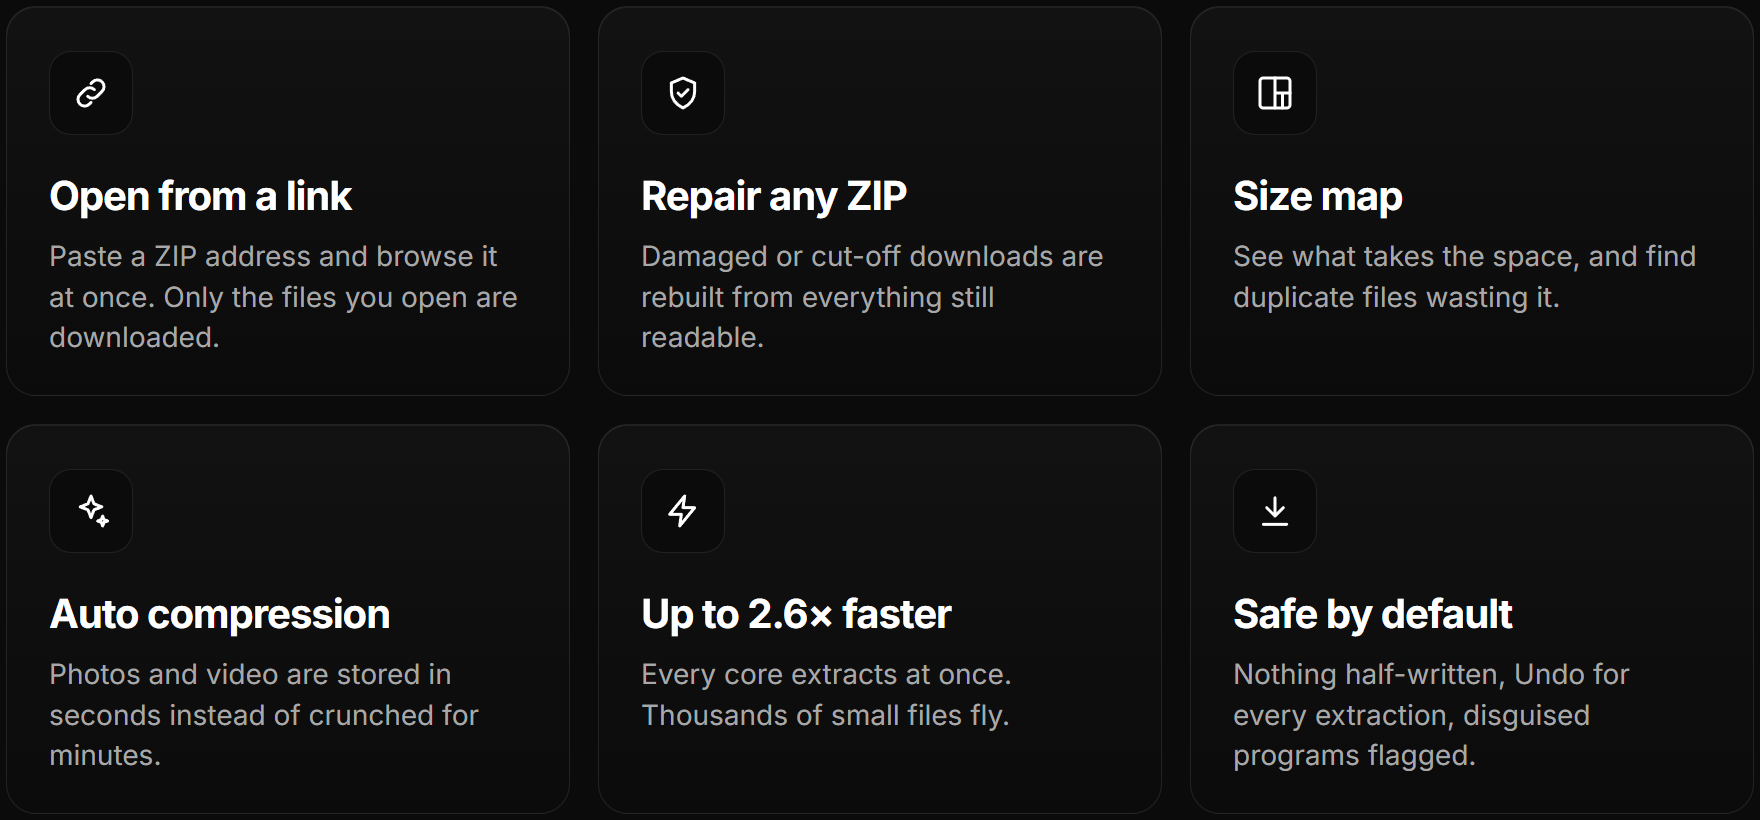
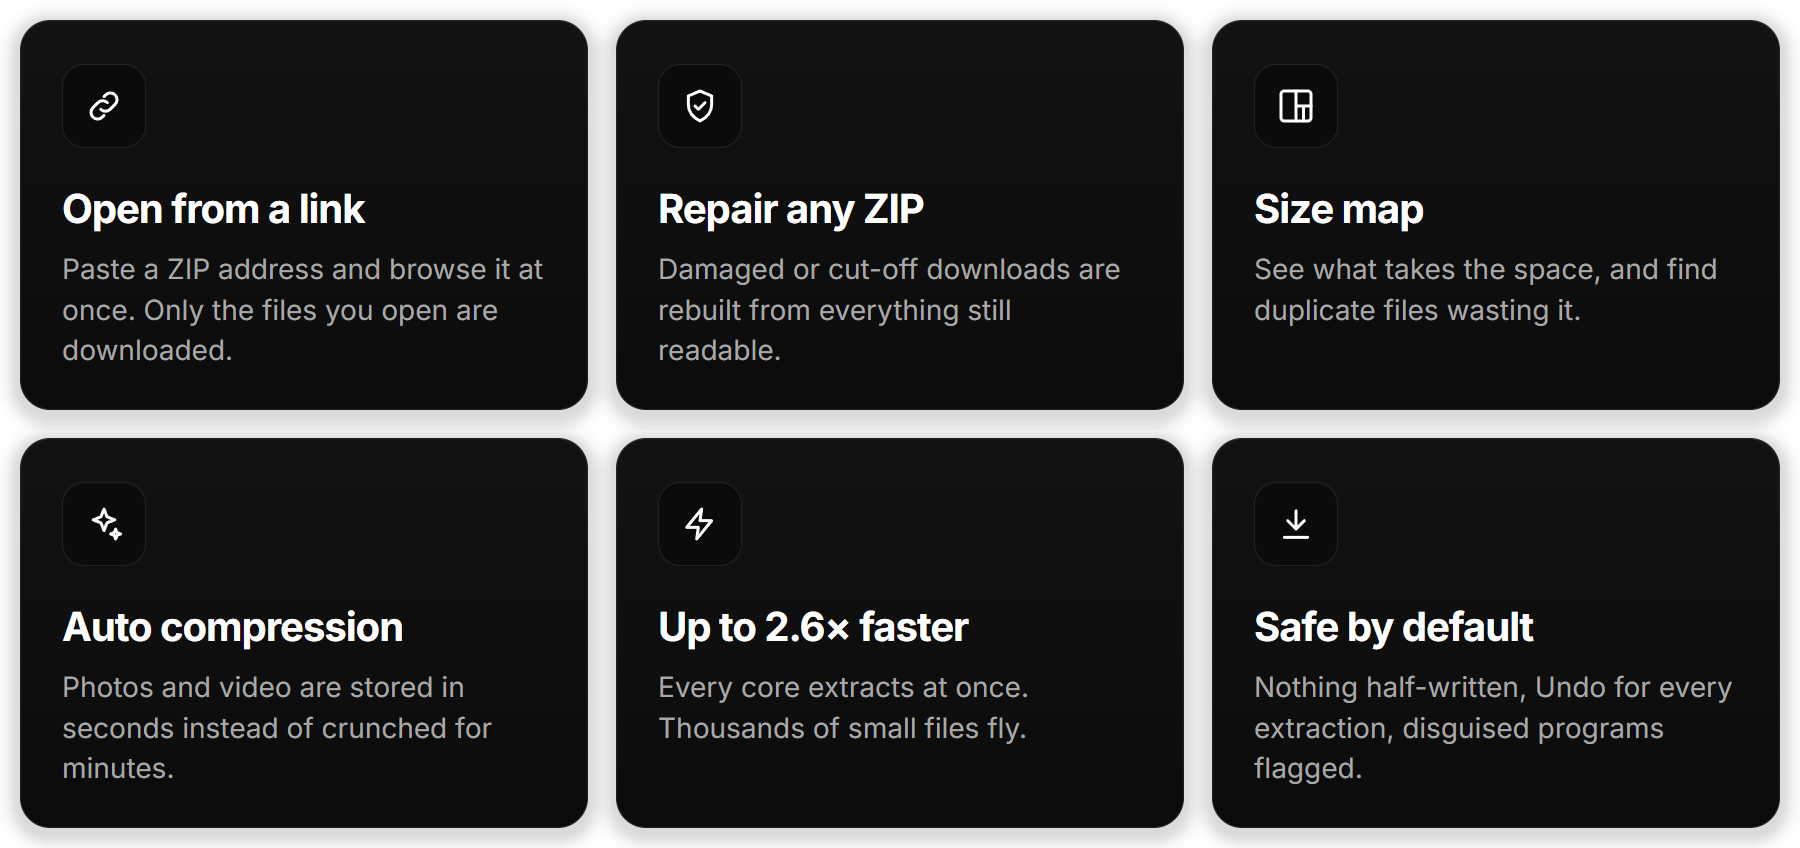
Tighten page spacing, add a speed chart, make the gaps between feature cards transparent, fix screenshots

diff --git a/README.md b/README.md
@@ -1,50 +1,62 @@
 <div align="center">
-
 <picture>
-  <source media="(prefers-color-scheme: dark)" srcset="assets/banner-dark.png">
-  <img src="assets/banner-light.png" alt="Anchor: the archive tool for Windows that opens anything, extracts faster, and fixes what is broken" width="100%">
+<source media="(prefers-color-scheme: dark)" srcset="assets/banner-dark.png">
+<img src="assets/banner-light.png" alt="Anchor: the archive tool for Windows that opens anything, extracts faster, and fixes what is broken" width="100%">
 </picture>
-
-<a href="https://github.com/realhenners/anchor-releases/releases/latest"><img src="assets/button-download.png" alt="Download for Windows" width="324"></a>
-<a href="https://github.com/realhenners/anchor-releases/releases"><picture>
-  <source media="(prefers-color-scheme: dark)" srcset="assets/button-notes-dark.png">
-  <img src="assets/button-notes-light.png" alt="What's new" width="234">
-</picture></a>
-
-<sub>Free · Windows 10 and 11 · x64 and ARM64 · No admin rights needed</sub>
-
-<br><br>
-
+<p>
+<a href="https://github.com/realhenners/anchor-releases/releases/latest"><img src="assets/button-download.png" alt="Download for Windows" height="62"></a>&nbsp;&nbsp;<a href="https://github.com/realhenners/anchor-releases/releases"><img src="assets/button-notes.png" alt="What's new" height="62"></a>
+</p>
+<p><sub>Free&nbsp;&nbsp;·&nbsp;&nbsp;Windows 10 and 11&nbsp;&nbsp;·&nbsp;&nbsp;x64 and ARM64&nbsp;&nbsp;·&nbsp;&nbsp;No admin rights needed</sub></p>
 <img src="assets/shot-archive.png" alt="Anchor showing the contents of a ZIP archive, with a photo preview" width="100%">
-
 </div>
-
-<br>
 
 ## What makes it different
 
 <picture>
-  <source media="(prefers-color-scheme: dark)" srcset="assets/features-dark.png">
-  <img src="assets/features-light.png" alt="Open from a link. Repair any ZIP. Size map. Auto compression. Up to 2.6 times faster. Safe by default." width="100%">
+<source media="(prefers-color-scheme: dark)" srcset="assets/features-dark.png">
+<img src="assets/features-light.png" alt="Open from a link. Repair any ZIP. Size map. Auto compression. Up to 2.6 times faster. Safe by default." width="100%">
 </picture>
 
-<br>
+## Up to 2.6× faster than 7-Zip
+
+Anchor extracts on every processor core at once, so archives with many files finish in well under half the time. With a few large files, the two are even.
+
+<picture>
+<source media="(prefers-color-scheme: dark)" srcset="assets/speed-dark.png">
+<img src="assets/speed-light.png" alt="Extraction time, Anchor against 7-Zip 26.04. 4,000 small files: ZIP 1.4 s against 3.7 s, TAR.ZST 1.6 s against 4.0 s, TAR.GZ 1.7 s against 3.7 s, 7Z 3.7 s against 3.8 s. 8 large files: about the same for every format." width="100%">
+</picture>
+
+<details>
+<summary>See the numbers</summary>
+
+| Archive | Anchor | 7-Zip 26.04 | |
+| :-- | --: | --: | :-- |
+| 4,000 small files · ZIP | 1.43 s | 3.67 s | **2.6× faster** |
+| 4,000 small files · TAR.ZST | 1.60 s | 3.98 s | **2.5× faster** |
+| 4,000 small files · TAR.GZ | 1.73 s | 3.67 s | **2.1× faster** |
+| 4,000 small files · 7Z | 3.69 s | 3.78 s | about the same |
+| 8 large files, 320 MB · ZIP | 0.51 s | 0.50 s | about the same |
+| 8 large files, 320 MB · 7Z | 0.27 s | 0.26 s | about the same |
+| 8 large files, 320 MB · TAR.GZ | 0.76 s | 0.71 s | about the same |
+| 8 large files, 320 MB · TAR.ZST | 0.36 s | 0.33 s | about the same |
+
+Measured on one PC with 24 cores, best of three runs, each tool extracting to an empty folder and producing the same files.
+
+</details>
 
 ## Anchor, 7-Zip and WinRAR
 
-|                                                    | **Anchor** | 7-Zip | WinRAR |
-| :------------------------------------------------- | :--------: | :---: | :----: |
-| Extracts many small files 2–2.6× faster            | ✅ | — | — |
+| | **Anchor** | 7-Zip | WinRAR |
+| :-- | :--: | :--: | :--: |
+| Extracts many small files 2–2.6× faster | ✅ | — | — |
 | Opens a ZIP from a link without downloading it all | ✅ | — | — |
-| Repairs damaged ZIPs, even without recovery data   | ✅ | — | ✅ |
-| Recovery data for any archive                      | ✅ | — | RAR only |
-| Size map, with duplicate files found for you       | ✅ | — | — |
-| Picks the right compression for your files         | ✅ | — | — |
-| Safety check for disguised programs and zip bombs  | ✅ | — | — |
-| Undo an extraction                                 | ✅ | — | — |
-| Free, with no nag screen                           | ✅ | ✅ | — |
-
-<br>
+| Repairs damaged ZIPs, even without recovery data | ✅ | — | ✅ |
+| Recovery data for any archive | ✅ | — | RAR only |
+| Size map, with duplicate files found for you | ✅ | — | — |
+| Picks the right compression for your files | ✅ | — | — |
+| Safety check for disguised programs and zip bombs | ✅ | — | — |
+| Undo an extraction | ✅ | — | — |
+| Free, with no nag screen | ✅ | ✅ | — |
 
 ## See what takes the space
 
@@ -52,32 +64,14 @@ The size map shows an archive by size. Click a folder to go into it. Duplicate f
 
 <img src="assets/shot-size-map.png" alt="Size map of an archive: folders sized by how much space they take, and a note about a duplicate file" width="100%">
 
-<br>
-
 ## Light or dark, your choice
 
 <img src="assets/shot-light.png" alt="Anchor in light mode, previewing a README file inside an archive" width="100%">
-
-<br>
-
-## Speed
-
-Extraction time against 7-Zip 26.04 on the same PC, with the same files out.
-
-| Archive                     | Anchor | 7-Zip |                 |
-| :-------------------------- | -----: | ----: | :-------------- |
-| 4,000 small files · ZIP     | 1.4 s  | 3.7 s | **2.6× faster** |
-| 4,000 small files · TAR.ZST | 1.6 s  | 4.0 s | **2.5× faster** |
-| 4,000 small files · TAR.GZ  | 1.7 s  | 3.7 s | **2.1× faster** |
-| 320 MB in 8 large files     | 0.3–0.8 s | 0.3–0.7 s | about the same |
-
-<br>
 
 ## Everything it does
 
 <details>
 <summary><b>Open anything</b></summary>
-<br>
 
 - Every common format, split archives from any volume, archives inside archives
 - Tabs, folder tree, list and grid views, search by name or by text inside files
@@ -85,10 +79,8 @@ Extraction time against 7-Zip 26.04 on the same PC, with the same files out.
 - Open from a link: paste a ZIP's address (Ctrl+L) and browse it at once
 
 </details>
-
 <details>
 <summary><b>Extract safely</b></summary>
-<br>
 
 - Uses every processor core, and never puts a folder inside a folder of the same name
 - Files appear only when everything succeeded, and Undo takes them back
@@ -96,20 +88,16 @@ Extraction time against 7-Zip 26.04 on the same PC, with the same files out.
 - Right-click any archive in Explorer: Extract here, Extract to folder, Open with Anchor
 
 </details>
-
 <details>
 <summary><b>Create archives</b></summary>
-<br>
 
 - ZIP, 7Z, TAR.ZST and TAR.GZ, with AES-256 passwords, split volumes and hidden file names
 - Auto compression: photos and video are stored in seconds instead of crunched for minutes
 - Recovery data: add 5–20% repair data so damage can be fixed later
 
 </details>
-
 <details>
 <summary><b>Fix and check</b></summary>
-<br>
 
 - Repair from recovery data, or rebuild a broken or cut-off ZIP from whatever is still readable
 - Test integrity, SHA-256 checksums, compare an archive with a folder or another archive
@@ -117,12 +105,9 @@ Extraction time against 7-Zip 26.04 on the same PC, with the same files out.
 
 </details>
 
-<br>
-
 ## Install
 
-1. Open the **[latest release](https://github.com/realhenners/anchor-releases/releases/latest)** and download `Anchor-Setup-<version>.exe`.<br>
-   On a Snapdragon or other ARM PC, take the file ending in `-arm64.exe`.
+1. Open the **[latest release](https://github.com/realhenners/anchor-releases/releases/latest)** and download `Anchor-Setup-<version>.exe`. On a Snapdragon or other ARM PC, take the file ending in `-arm64.exe`.
 2. Run it and pick your options.
 3. Done. Anchor checks for updates when it starts and installs them in one click.
 
